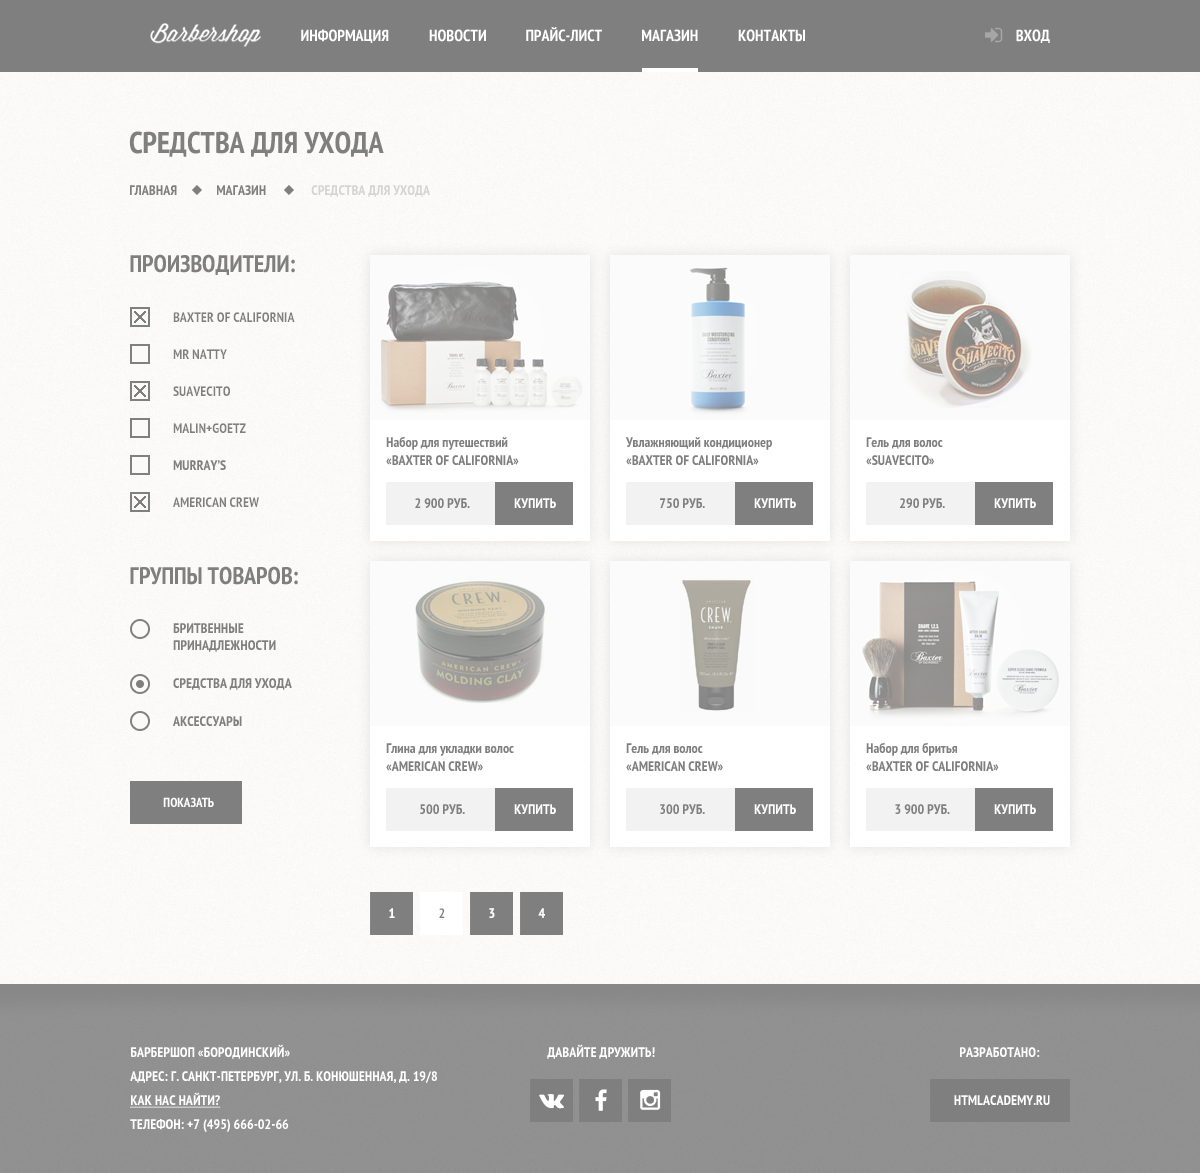
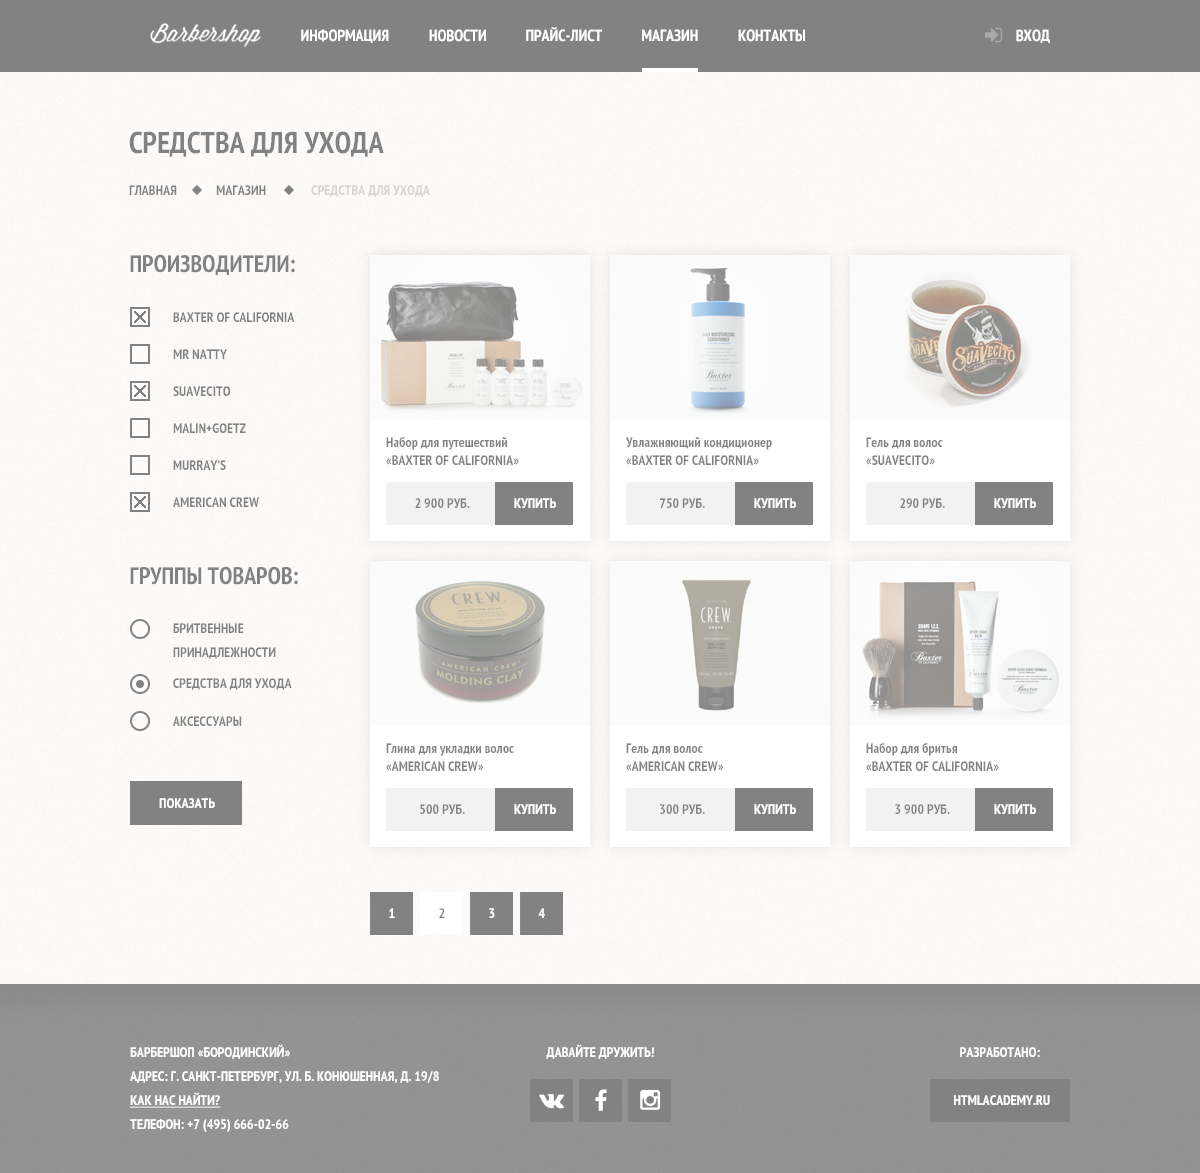
Готовая верстка страниц
Без попапов.

diff --git a/css/style.css b/css/style.css
@@ -16,14 +16,16 @@ body {
   font-family: "PT Sans Narrow", "Arial", sans-serif;
   color: #ffffff;
   text-transform: uppercase;
+  background-size: 1200px auto;
+  background: #000000 url("../img/body-bg.jpg") no-repeat center top;
+}
 
-  background: url("../img/_barbershop-shop.png") no-repeat 50% 0;
-  /*background-size: 1200px auto;  background: #000000 url("../img/body-bg.jpg") no-repeat center top;*/
+.second-page {
+  background: url("../img/bg-page.png") repeat 0 0;
 }
 
 .clearfix::after {
   content: "";
-
   display: table;
   clear: both;
 }
@@ -81,7 +83,8 @@ body {
   border-bottom: 4px solid #ffffff;
 }
 
-.main-navigation a:hover {
+.main-navigation a:hover,
+.main-navigation .active:hover {
   background: #242424;
 }
 
@@ -117,8 +120,8 @@ body {
   width: 18px;
   height: 18px;
 
-  background: transparent url("img/sprite.png") no-repeat;
-  background-position: -1px -15px;
+  background: transparent url("../img/sprite.png") no-repeat;
+  background-position: -10px -10px;
   opacity: 0.3;
 }
 
@@ -392,7 +395,7 @@ body {
   vertical-align: top;
   text-decoration: none;
 
-  background: #000000 url("img/sprite.png") no-repeat center;
+  background: #000000 url("../img/sprite.png") no-repeat center;
 
   transition:
     background-position 0.5s,
@@ -404,27 +407,27 @@ body {
 }
 
 .social-btn-vk {
-  background-position: 9px -447px;
+  background-position: 0 -274px;
 }
 
 .social-btn-fb {
-  background-position: 15px -171px;
+  background-position: 5px -108px;
 }
 
 .social-btn-inst {
-  background-position: 12px -313px;
+  background-position: 3px -192px;
 }
 
 .social-btn-vk:hover {
-  background-position: 9px -381px;
+  background-position: 0 -310px;
 }
 
 .social-btn-fb:hover {
-  background-position: 15px -100px;
+  background-position: 5px -150px;
 }
 
 .social-btn-inst:hover {
-  background-position: 12px -242px;
+  background-position: 3px -233px;
 }
 
 .footer-copyright p {
@@ -460,7 +463,7 @@ body {
 }
 
 .breadcrumbs{
-  margin-bottom: 40px;
+  margin-bottom: 48px;
   padding: 0;
   font-size: 0;
 
@@ -477,7 +480,20 @@ body {
   color: #aba9a7;
 }
 
+.breadcrumbs a::after {
+  content: "";
+  display: block;
+  position: absolute;
+  top: 3px;
+  right: -23px;
+  width: 8px;
+  height: 8px;
+  background-color: #000000;
+  transform: rotate(45deg);
+}
+
 .breadcrumbs a {
+  position: relative;
   color: #000000;
   text-decoration: none;
 }
@@ -485,6 +501,7 @@ body {
 .shop-content-left {
   width: 220px;
   float: left;
+  margin-top: -8px;
 
   /* Только для оформления сетки */
   outline: 2px solid blue;
@@ -545,9 +562,7 @@ body {
 
 .products {
   margin-bottom: 25px;
-
   font-size: 0;
-
 }
 
 .item {
@@ -568,6 +583,18 @@ body {
   margin-right: 0;
 }
 
+.item img {
+  display: block;
+}
+
+.item p {
+  margin-bottom: 12px;
+  margin-top: 12px;
+  padding-left: 16px;
+  font-size: 14px;
+  line-height: 18px;
+}
+
 .product-name {
   color: #000000;
   text-decoration: none;
@@ -575,6 +602,10 @@ body {
 }
 
 .buy {
+  width: 187px;
+  margin-left: 16px;
+  margin-right: 16px;
+  margin-bottom: 16px;
 
   /* Только для оформления сетки */
   outline: 2px solid magenta;
@@ -583,9 +614,20 @@ body {
 .price {
   float: left;
   width: 109px;
+  padding: 10px 0;
+  text-align: center;
+  font-size: 14px;
+  line-height: 24px;
+  color: #000000;
 
   /* Только для оформления сетки */
   outline: 2px solid yellow;
+}
+
+.buy .btn {
+  float: right;
+  margin: 0;
+  padding: 10px 17px;
 }
 
 .pages {
@@ -597,12 +639,33 @@ body {
 
 .page {
   float: left;
-  height: 44px;
   width: 44px;
   margin-right: 6px;
+  list-style: none;
+  text-align: center;
+  background-color: #000000;
 
   /* Только для оформления сетки */
   outline: 2px solid red;
+}
+
+.page a {
+    display: block;
+    height: 24px;
+    width: 44px;
+    padding: 10px 0;
+    color: #ffffff;
+    font-size: 14px;
+    line-height: 24px;
+    text-decoration: none;
+}
+
+.active-page {
+  color: #000000;
+  padding: 10px 0;
+  font-size: 14px;
+  line-height: 24px;
+  background-color: #ffffff;
 }
 
 /*!!!!!!!!!!!!!!!!!!!!!barbershop-item.html!!!!!!!!!!!!!!!!*/
@@ -648,15 +711,15 @@ body {
 }
 
 .product-info {
-  margin-bottom: 65px;
+  margin-bottom: 63px;
 
   /* Только для оформления сетки */
   outline: 2px solid yellow;
 }
 
 .availability {
-padding-top: 27px;
-margin-bottom: 38px;
+padding-top: 19px;
+margin-bottom: 28px;
 
   /* Только для оформления сетки */
   outline: 2px solid red;
@@ -666,6 +729,7 @@ margin-bottom: 38px;
   float: left;
   padding: 0;
   margin: 0;
+  color: #000000;
 
   /* Только для оформления сетки */
   outline: 2px solid yellow;
@@ -674,8 +738,42 @@ margin-bottom: 38px;
 .description .right {
   float: right;
   padding: 0;
+  padding-right: 10px;
   margin: 0;
+  color: #aeaeae;
 
   /* Только для оформления сетки */
   outline: 2px solid yellow;
+}
+
+.product-info > p {
+  margin-bottom: 36px;
+  color: #000000;
+}
+
+.product-info .buy {
+  margin: 0;
+}
+
+.set {
+  margin-top: 28px;
+  list-style: none;
+  padding-left: 20px;
+  color: #000000;
+}
+
+.set li {
+  position: relative;
+}
+
+.set li::before {
+  content: "";
+  display: block;
+  position: absolute;
+  top: 7px;
+  left: -17px;
+  width: 8px;
+  height: 8px;
+  transform: rotate(45deg);
+  background-color: #000000;
 }

diff --git a/barbershop-item.html b/barbershop-item.html
@@ -5,9 +5,9 @@
     <title>Набор для путешествий</title>
     <link href="css/style.css" rel="stylesheet">
   </head>
-  <body>
+  <body class="second-page">
     <header class="main-header">
-      <div class="container">
+      <div class="container clearfix">
         <nav class="main-navigation">
           <ul>
             <li>
@@ -85,7 +85,7 @@
             <li>Средство для умывания (50 мл)</li>
             <li>Увлажняющий крем (50 мл)</li>
             <li>Крем для бритья (50 мл)</li>
-            <li>Крем после бритья (50 мл)</li>
+            <li>Крем после бритья, шампунь (50 мл)</li>
             <li>Удобная кожаная косметичка</li>
           </ul>
         </div>

diff --git a/barbershop-shop.html b/barbershop-shop.html
@@ -5,7 +5,7 @@
     <title>Каталог</title>
     <link href="css/style.css" rel="stylesheet">
   </head>
-  <body>
+  <body class="second-page">
     <header class="main-header">
       <div class="container clearfix">
         <nav class="main-navigation">
@@ -198,11 +198,11 @@
             </div>
           </div>
           <ul class="pages clearfix">
-            <li class="page active-page">
-              1
-            </li>
             <li class="page">
-              <a href="#">2</a>
+              <a href="#">1</a>
+            </li>
+            <li class="page active-page">
+              2
             </li>
             <li class="page">
               <a href="#">3</a>
